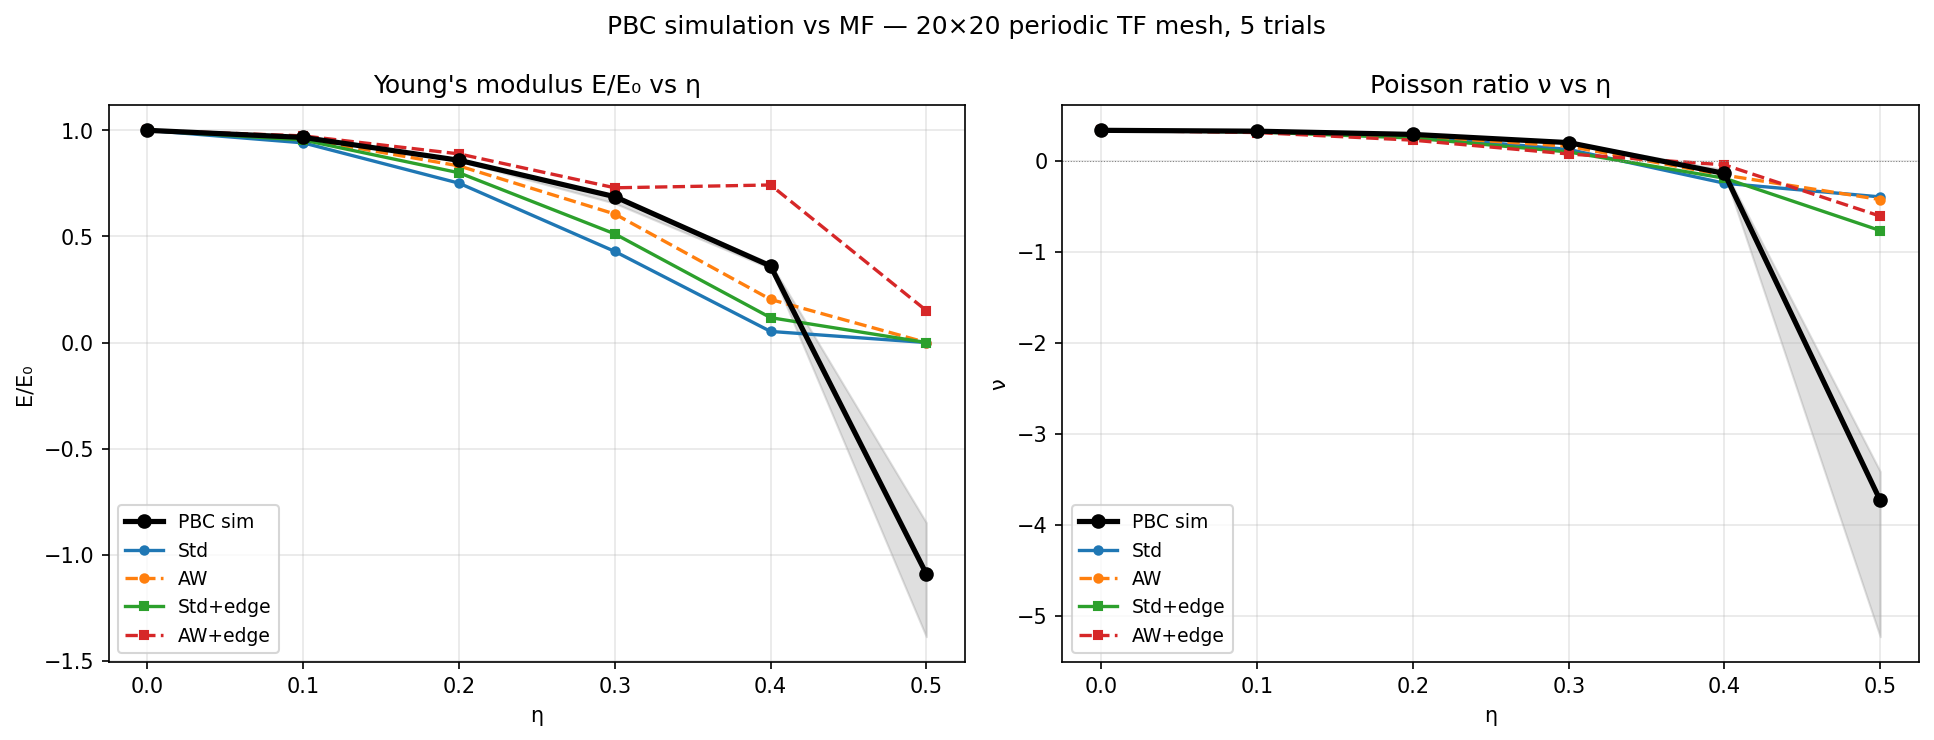
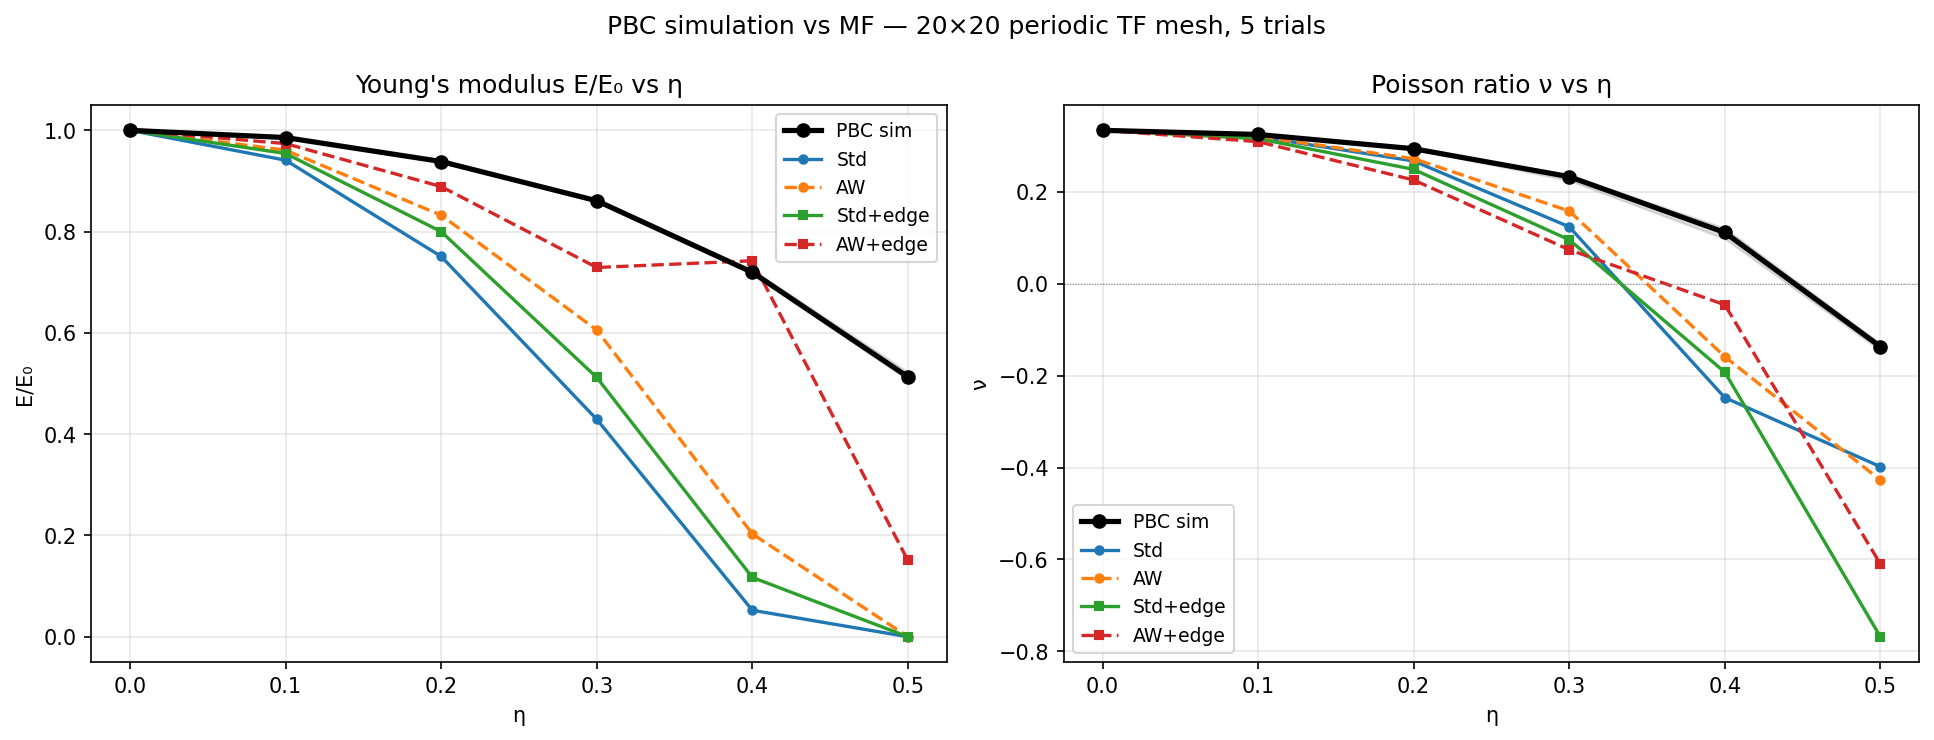
Fix C_aff bug and W sign convention in PBC comparison
Two fixes:

1. pbc_simulation.py: C_aff used stretch = (R·ε·R)/|R|² (missing sqrt). The
   physical bond extension is (R·ε·R)/|R|, so divide by sqrt(l2) not l2.
   This eliminated negative E at η=0.5 (was E=-1.26, now E=+0.59).

2. run_breakdown.py: D2C W is a stiffness correction (C_s = A_s(I+W_s)²), not
   a direct strain response. The non-affine metric change predicted by D2C is
   -W_mf @ Gbar (note minus sign). Soft triangles have W_mf < 0 and W_sim > 0.
   Sign correction reduces relW_med from ~1.65 to ~1.0 at η=0.1.

https://claude.ai/code/session_015phVDszgsK9y7r119GVKi9

diff --git a/breakdown/run_breakdown.py b/breakdown/run_breakdown.py
@@ -1,11 +1,18 @@
 """
 PBC simulation vs MF methods — per-triangle W comparison.
 
-W_mf[s, :, k] = non-affine response per unit macroscopic metric change e_k.
-W_sim[s, :, α] = actual non-affine response per unit applied strain δ for mode α.
+W_sim[s, :, α] = actual non-affine metric change of triangle s per unit applied
+strain δ for mode α (= (g_def - g_aff)/δ from the sparse linear solve).
 
-To compare them: W_mf_pred[s, :, α] = W_mf[s] @ G̅_α
+W_mf[s, :, k] from D2C theory is a *stiffness correction*, not a strain response:
+C_s^eff = A_s (I + W_s)².  The local strain is ε_s ≈ (I + W_s)^{-1} ε̄ ≈ ε̄ − W_s ε̄,
+so the non-affine metric change predicted by D2C is:
+
+  W_mf_pred[s, :, α] = -W_mf[s] @ G̅[:,α]   (note the minus sign!)
+
 where G̅[:,α] = mean_s(Δg_aff(s,α)) is the mean affine metric change per unit δ.
+Soft triangles (long bonds) have W_mf < 0 (lower stiffness) and W_sim > 0 (deform
+more than affine), confirming the sign convention.
 """
 import sys, os, time
 sys.stdout.reconfigure(line_buffering=True) if hasattr(sys.stdout, 'reconfigure') else None
@@ -112,9 +119,11 @@ def run_mf(mesh, area_weighted, use_kkt):
     # W_np (N_tri,9) → W_mf (N_tri,3,3): W_mf[s,i,k]=response of metric i to MF mode k
     W_mf = W_np.reshape(N_tri, 3, 3)
 
-    # Project to strain basis: W_mf_pred[s,:,α] = W_mf[s] @ G̅[:,α]
+    # D2C W measures stiffness deviation: C_s = A_s(I+W_s)².
+    # Non-affine local strain correction ≈ -(I+W_s - I)ε̄ = -W_s ε̄, hence the
+    # predicted non-affine metric change is -W_mf @ Gbar (note the sign).
     Gbar = compute_Gbar_mat(mesh)               # (3, 3)
-    W_mf_pred = np.einsum('sik,ka->sia', W_mf, Gbar)  # (N_tri, 3, 3)
+    W_mf_pred = -np.einsum('sik,ka->sia', W_mf, Gbar)  # (N_tri, 3, 3)
 
     # Elastic constants
     W_t = torch.as_tensor(W_np, dtype=torch.float64)

diff --git a/breakdown/pbc_simulation.py b/breakdown/pbc_simulation.py
@@ -205,14 +205,16 @@ def extract_pbc_elastic_tensor(mesh, delta=1e-3):
         U[alpha] = v.ravel()
 
     # Affine elastic tensor
-    # C_affine[alpha, beta] = (1/Vol) * Σ_b (R^T eps_alpha R)(R^T eps_beta R) / |R|²
+    # C_affine[alpha, beta] = (1/Vol) * Σ_b stretch_a * stretch_b
+    # where stretch = (R·ε·R)/|R|  (physical bond extension per unit strain)
+    bonds_l = np.sqrt(bonds_l2)
     C_aff = np.zeros((n_modes, n_modes))
     for alpha, eps_a in enumerate(eps_modes):
         for beta, eps_b in enumerate(eps_modes):
             eps_a_R = bonds_R @ eps_a.T
             eps_b_R = bonds_R @ eps_b.T
-            stretch_a = (bonds_R * eps_a_R).sum(1) / bonds_l2
-            stretch_b = (bonds_R * eps_b_R).sum(1) / bonds_l2
+            stretch_a = (bonds_R * eps_a_R).sum(1) / bonds_l
+            stretch_b = (bonds_R * eps_b_R).sum(1) / bonds_l
             C_aff[alpha, beta] = stretch_a @ stretch_b / Vol
 
     # Non-affine correction: C[alpha,beta] -= (1/Vol) * f_alpha · u_beta
